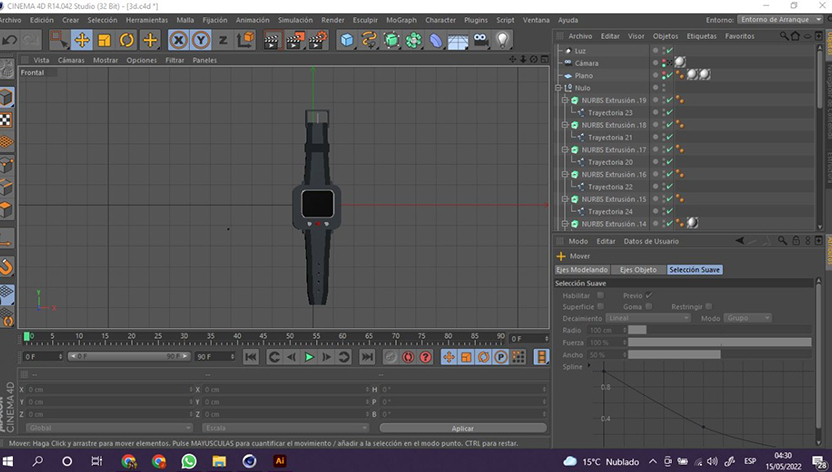
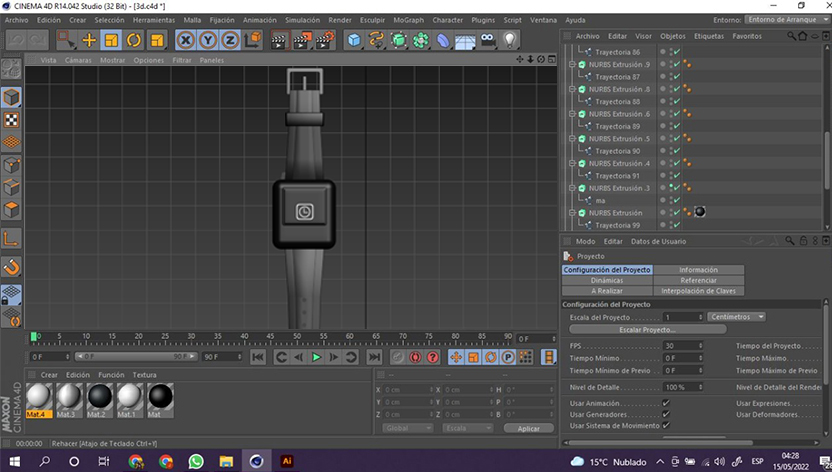
Vigesimaoctava versión

diff --git a/mision3.html b/mision3.html
@@ -68,7 +68,7 @@
         <div class="card-container">
           <div class="text-center">
             <h1 class="h2">003 : Misión</h1>
-          <p>Se realizo el modelado 3d del reloj en el programa Cinema 4d para tener una idea de como sera al momento de la impresion.</p>
+          <p>Se realizo el modelado 3d del reloj en el programa Cinema 4d para tener una idea de como será al momento de la impresión.</p>
         </div>
       </div>
   
@@ -122,15 +122,37 @@
           <div class="col-xs-12 col-md-6 text-center">
             <img src="./assets/images/3dmodeling7.jpg" class="img-responsive" alt="">
             <h4>Paso 7</h4>
-            <p>Agregamos a cada pieza el material que le corresponde.</p>
+            <p>Mejoramos los detalles de cada una de las piezas.</p>
           </div>
           <div class="col-xs-12 col-md-6 text-center">
             <img src="./assets/images/3dmodeling8.jpg" class="img-responsive" alt="">
             <h4>Paso 8</h4>
-            <p>Renderizamos el reloj.</p>
+            <p>Agregamos a cada pieza el material que corresponde.</p>
           </div>
         </div>
       </div>  
+
+      <div class="col-md-8 col-md-offset-2 section-container-spacer">
+        <div class="row">
+          <div class="col-xs-12 col-md-6 text-center">
+            <img src="./assets/images/3dmodeling9.jpg" class="img-responsive" alt="">
+            <h4>Paso 9</h4>
+            <p>Colocamos luces y la cámara para poder realizar el renderizado del reloj.</p>
+          </div>
+          <div class="col-xs-12 col-md-6 text-center">
+            <img src="./assets/images/3dmodeling10.jpg" class="img-responsive" alt="">
+            <h4>Paso 10</h4>
+            <p>Realizamos el renderizado.</p>
+          </div>
+        </div>
+      </div>  
+
+  <div class="col-xs-12 col-md-offset-1 ">
+    <img src="./assets/images/render.jpg" class="img-responsive" alt="">
+  </div>
+</div>
+</div>
+</div>
 
 <footer class="footer-container text-center">
   <div class="container">
